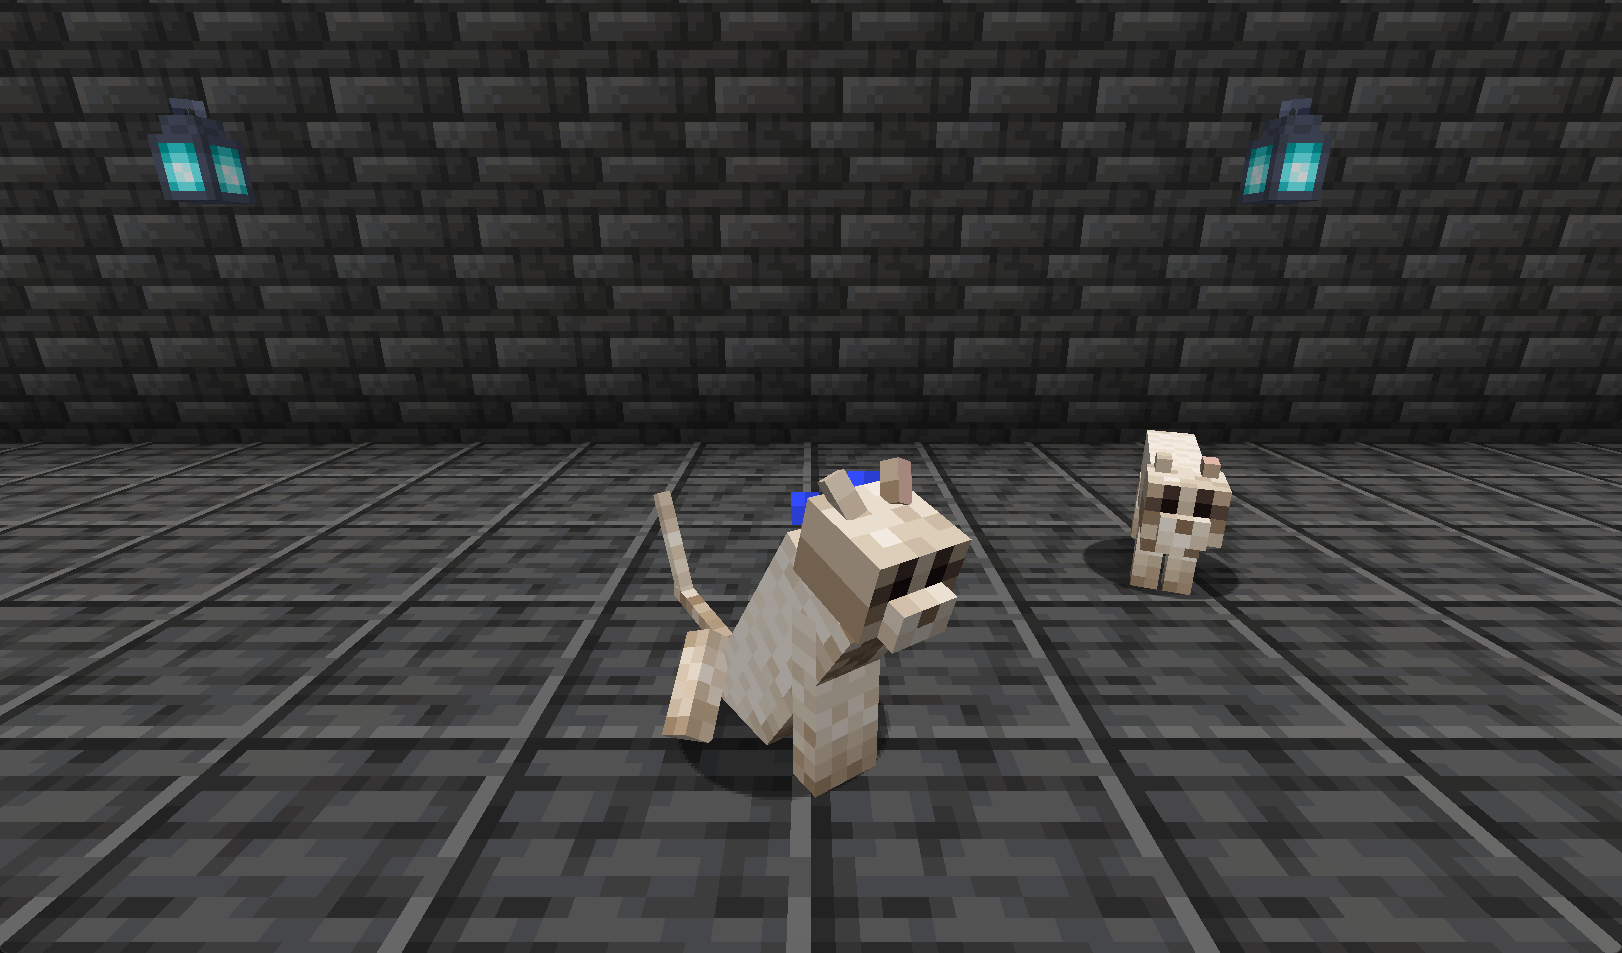
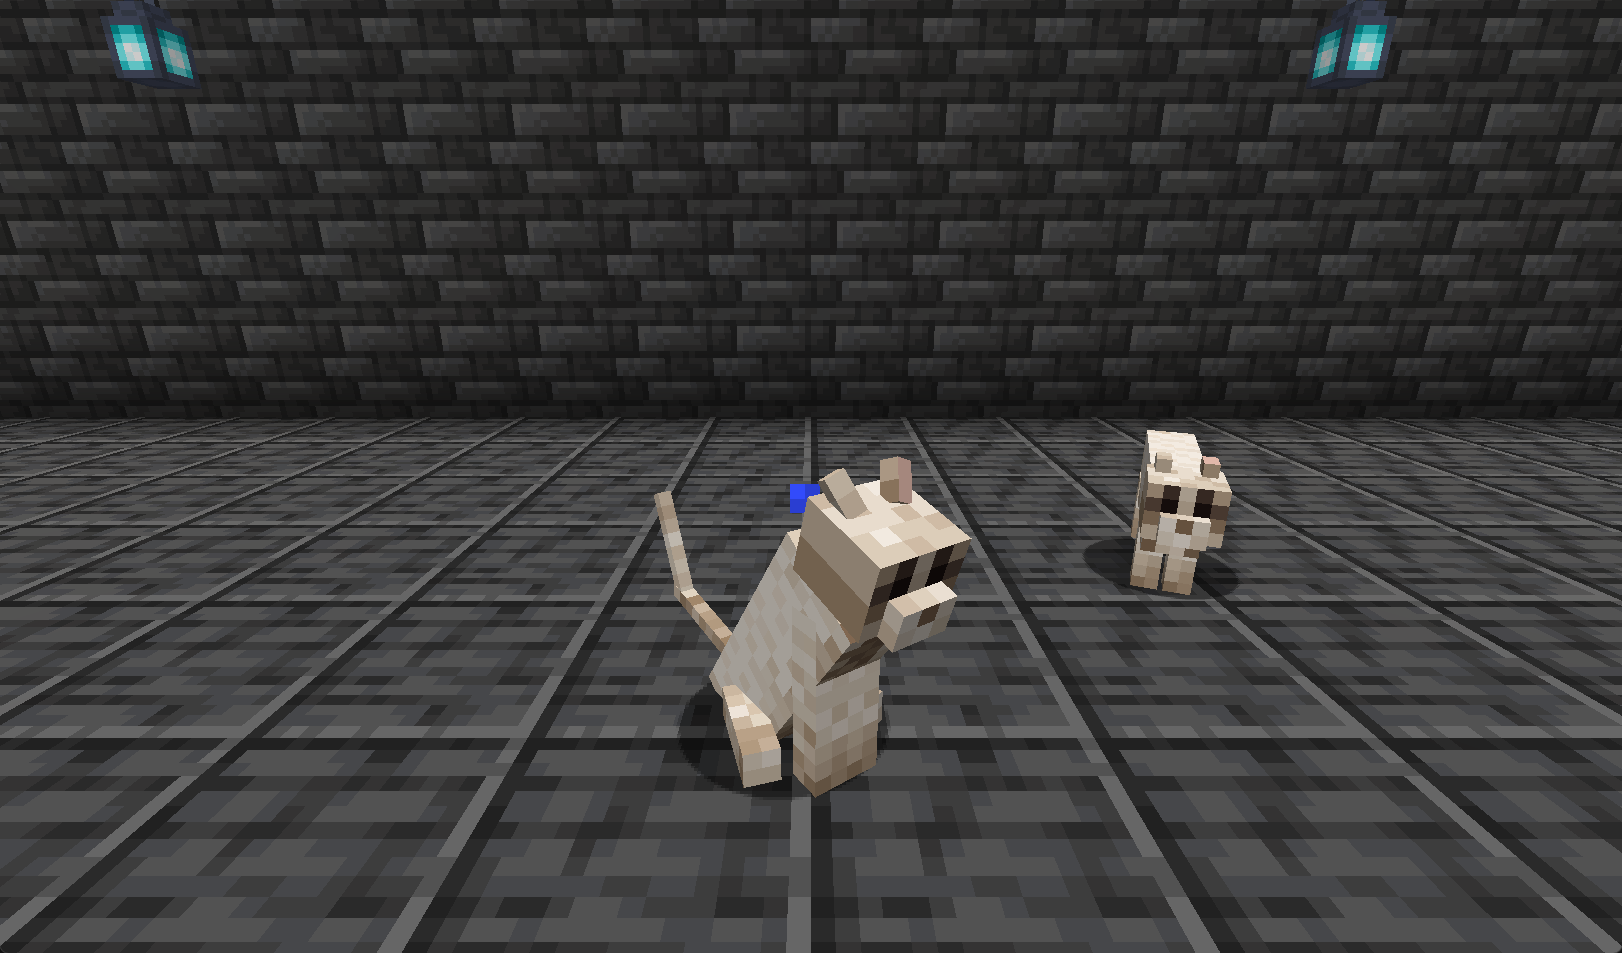
Document the Cash Cat in the README
Adds the Cash Cat, its screenshot, and the pet egg now that the egg is
obtainable again. Drops the work-in-progress note the egg no longer needs,
and credits vanilla for the cat's mesh and sounds the way Alex's Mobs is
credited for the Robin's.

diff --git a/README.md b/README.md
@@ -29,31 +29,39 @@ shoulder, sits when told, and takes no fall damage. Two things set it apart. It 
 **wheat seeds** rather than cookies, and unlike a parrot, a tamed pair can be **bred**. Spawns in
 forest biomes.
 
+**The Cash Cat** — the crying cat. It sits where it spawns and weeps, which is its whole character.
+**Cooked salmon** tames and breeds it, but salmon will not cheer it up: only a **gold ingot** does
+that, and only for one Minecraft day, during which it drops the slouch, stops crying and behaves
+like an ordinary cat. Feeding it *any* ingot is also a lottery — one time in ten thousand it coughs
+up a buried treasure map. Creepers and phantoms fear it exactly as they fear a vanilla cat.
+
 **The Black Feather** — what a Robin drops, and the only feather the Hood Brush can be built from.
 
 **The Hood Brush** — a feather, a gold ingot and a stick. Handles exactly like the vanilla brush
 (64 uses, 4.8 seconds a block) but uncovers a different set of things: a nautilus shell, an emerald,
-leather boots or a stone hoe.
+leather boots, a stone hoe — or, at **6.7%**, a pet egg.
+
+**Pet eggs** — the only way to get one is to brush for it. Place it and wait: 30 minutes to hatch,
+15 on wool, 5 on slime or honey, through three visible cracking stages. The block underneath is
+re-read at every stage, so moving an egg mid-hatch changes the time left.
 
 **Suspicious gravel in ancient cities** — 30% of the loose cobbled deepslate on their floors, so the
 brush has somewhere new to be used. Vanilla's suspicious sand still works as it always did.
 
-> [!NOTE]
-> **The pet egg is work in progress and cannot be obtained.** With one mob, and one that already
-> spawns in the world, an egg for it would be a circular reward. The block, its three hatch stages
-> and its 30 / 15 / 5-minute substrate timing are all built and tested — it is simply held back
-> until there is a second pet worth finding.
-
 ## Screenshots
 
 ![Three Robins perched on a log against a clear sky, with a fourth in flight](docs/screenshots/hero.png)
+
+![A Cash Cat sitting and weeping, with a cheered one standing behind it](docs/screenshots/cashcat.png)
+
+*The Cash Cat, sitting and crying. The one behind it has been fed a gold ingot.*
 
 | | |
 |:--:|:--:|
 | ![A Robin perched, seen in profile](docs/screenshots/portrait.png) | ![The Hood Brush held over patches of suspicious sand and gravel](docs/screenshots/brush.png) |
 | **The Robin** — 6 hearts, tamed with wheat seeds | **The Hood Brush** — over suspicious sand and gravel |
 | ![Three Robin Eggs at different hatch stages](docs/screenshots/egg.png) | ![The Black Feather, Hood Brush and Robin Egg as dropped items](docs/screenshots/items.png) |
-| **Hatch stages** on wool, slime and honey *(WIP)* | **Black Feather, Hood Brush, Robin Egg** |
+| **Hatch stages** on wool, slime and honey | **Black Feather, Hood Brush, Robin Egg** |
 
 ## Installing
 
@@ -62,18 +70,20 @@ brush has somewhere new to be used. Vanilla's suspicious sand still works as it 
 
 No other mods are required. The Robin's model was rebuilt against vanilla rather than copied, so
 there is **no dependency on Citadel** even though the geometry originates in a mod that needs it.
+The Cash Cat is built on vanilla's own cat mesh, reposed.
 
 ## Reference
 
 | | |
 | --- | --- |
-| Robin health | 6 (3 hearts) |
-| Taming | wheat seeds, 1 in 3 per seed |
-| Breeding | wheat seeds |
-| Spawns in | forest biomes |
+| Robin | 6 hearts · wheat seeds to tame (1 in 3) and breed · forest biomes |
+| Cash Cat | 10 hearts · cooked salmon to tame (1 in 3) and breed · plains, savanna, taiga |
+| Cheering a Cash Cat | one gold ingot, lasts one Minecraft day (24,000 ticks) |
+| Treasure map | any ingot, 1 in 10,000 |
 | Hood Brush durability | 64 uses |
 | Brushing time | 96 ticks (4.8 s) |
-| Egg hatch *(WIP)* | 30 min, 15 on wool, 5 on slime or honey |
+| Pet egg from brushing | 6.7% — weight 1 of 15, vanilla's own sniffer-egg odds |
+| Egg hatch | 30 min, 15 on wool, 5 on slime or honey |
 | Suspicious gravel | 30% of ancient-city cobbled deepslate |
 
 Unlike a vanilla brush, the Hood Brush also works on suspicious blocks you placed yourself — handy
@@ -99,4 +109,7 @@ The Robin's model geometry and its bird calls derive from the Blue Jay in
 **[Alex's Mobs](https://github.com/Alex-the-666/AlexsMobs)** by Alexthe666, which is GPL-3.0. That
 licence is copyleft, so anything built from it carries the same terms, and this mod does too.
 
-Mechanics are mirrored from vanilla Minecraft's brush, sniffer egg and parrot.
+The Cash Cat's geometry is vanilla's cat, reposed, and it borrows vanilla's cat sounds rather than
+shipping its own.
+
+Mechanics are mirrored from vanilla Minecraft's brush, sniffer egg, parrot and cat.
